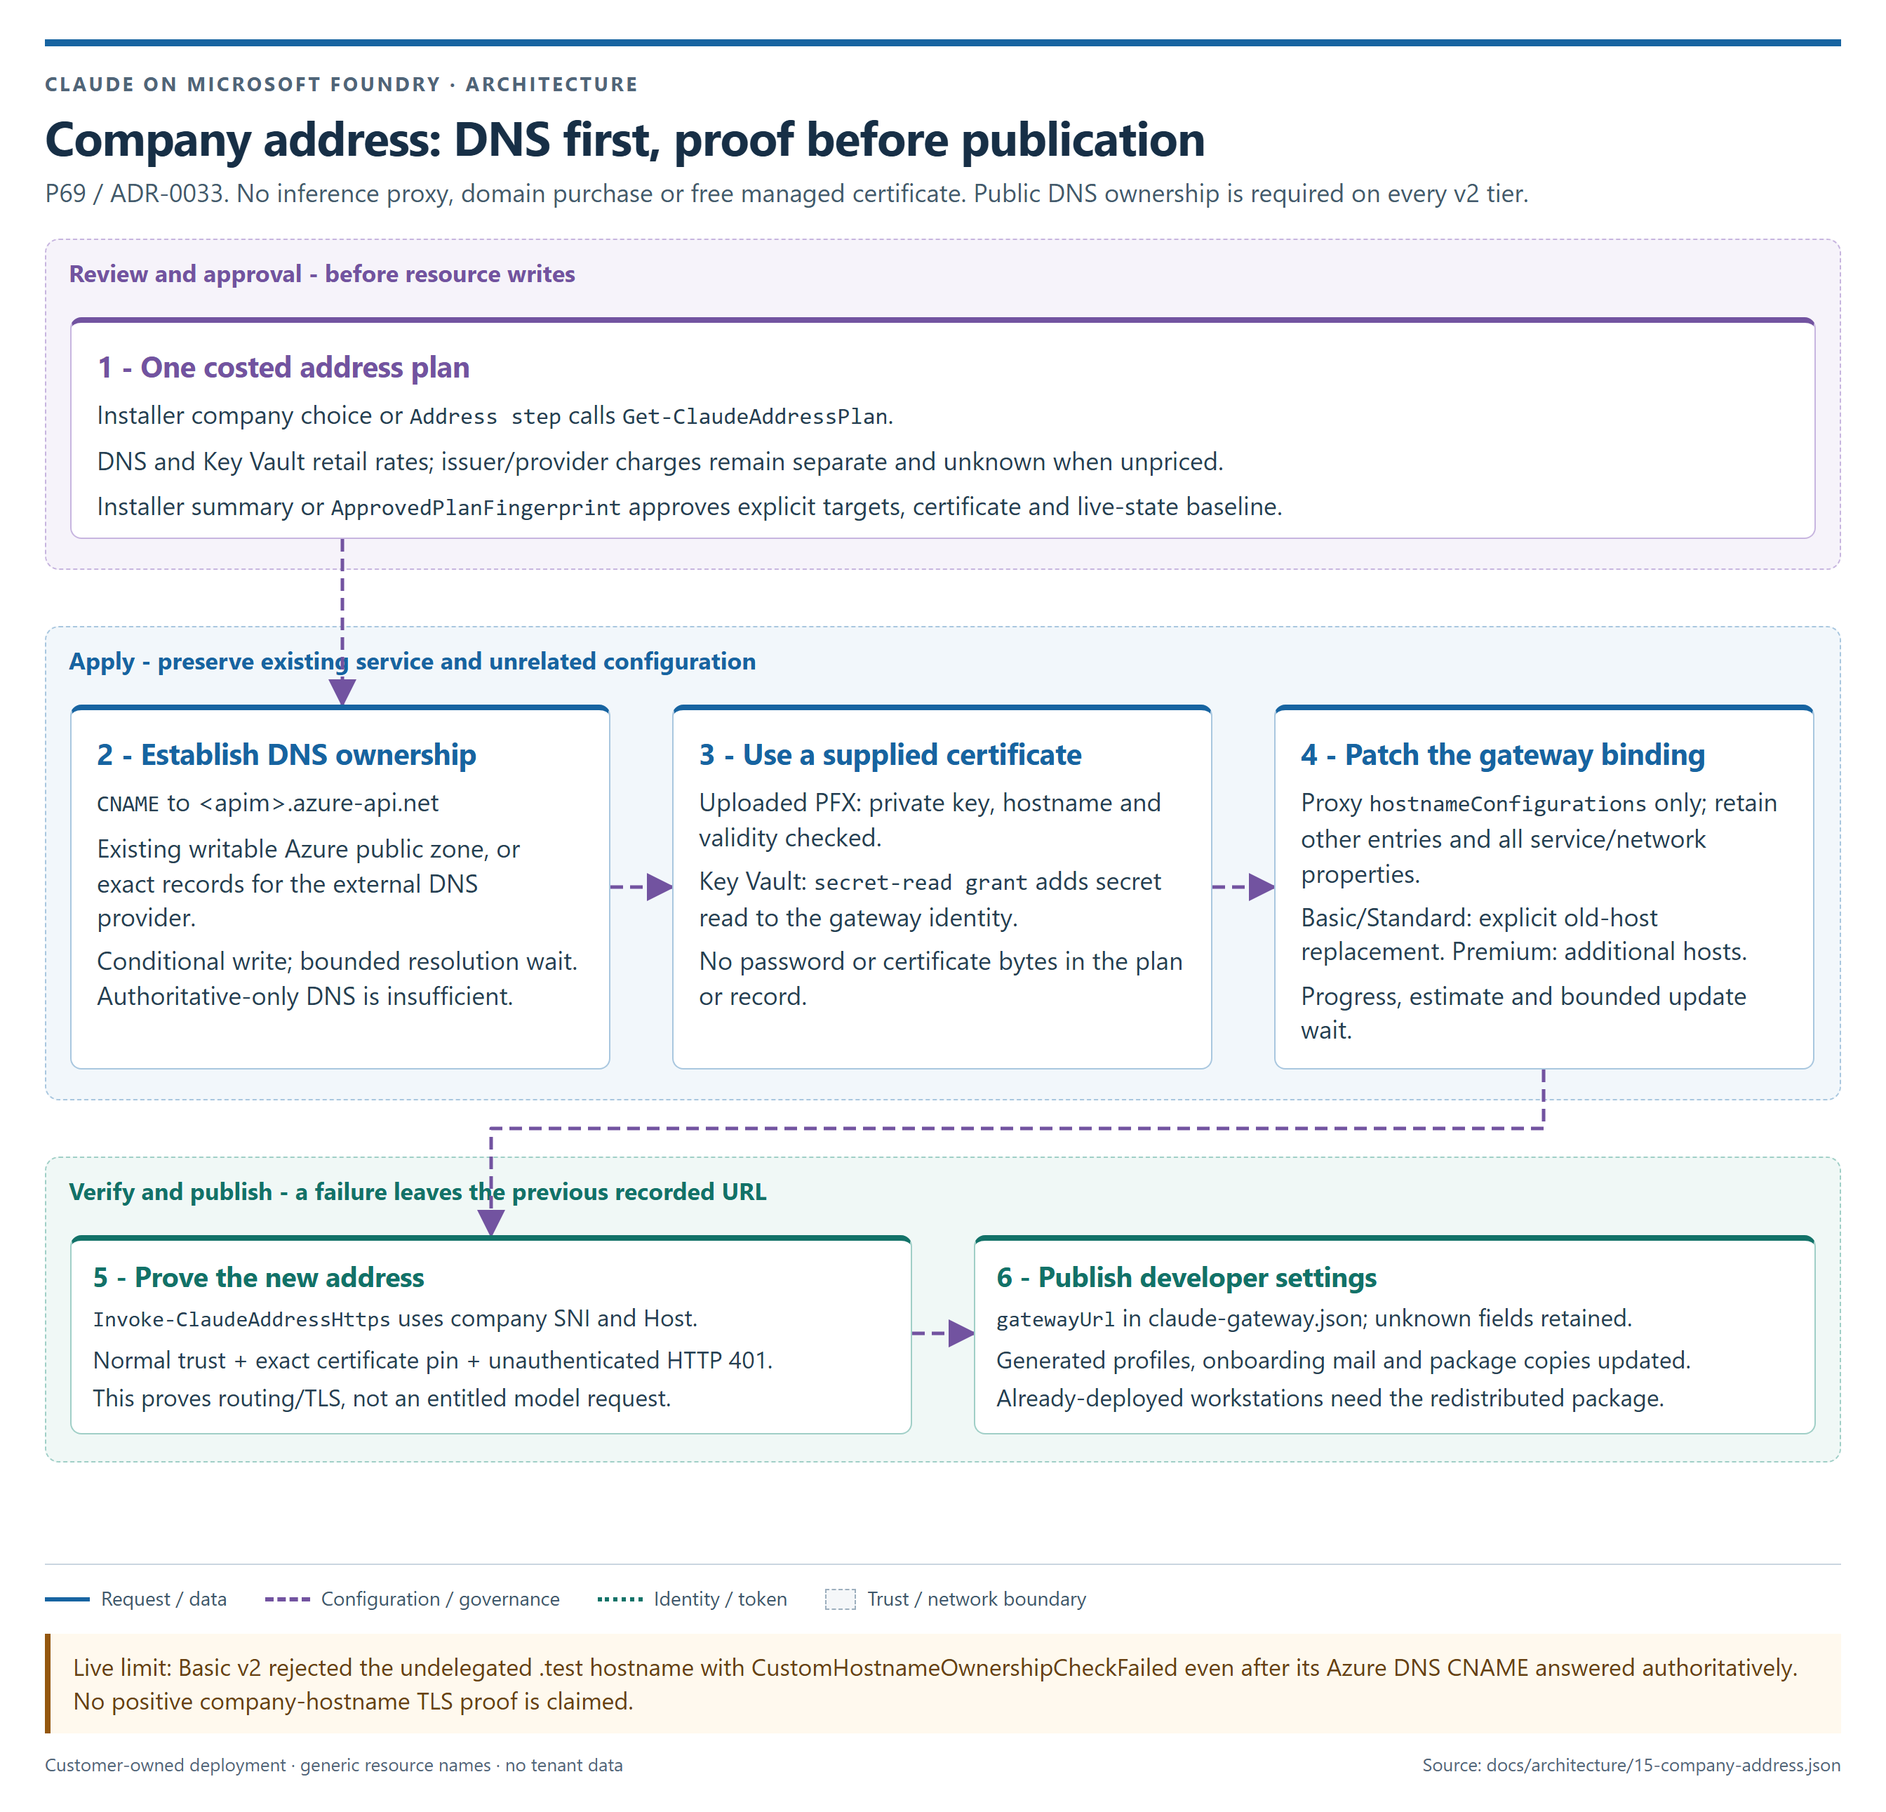
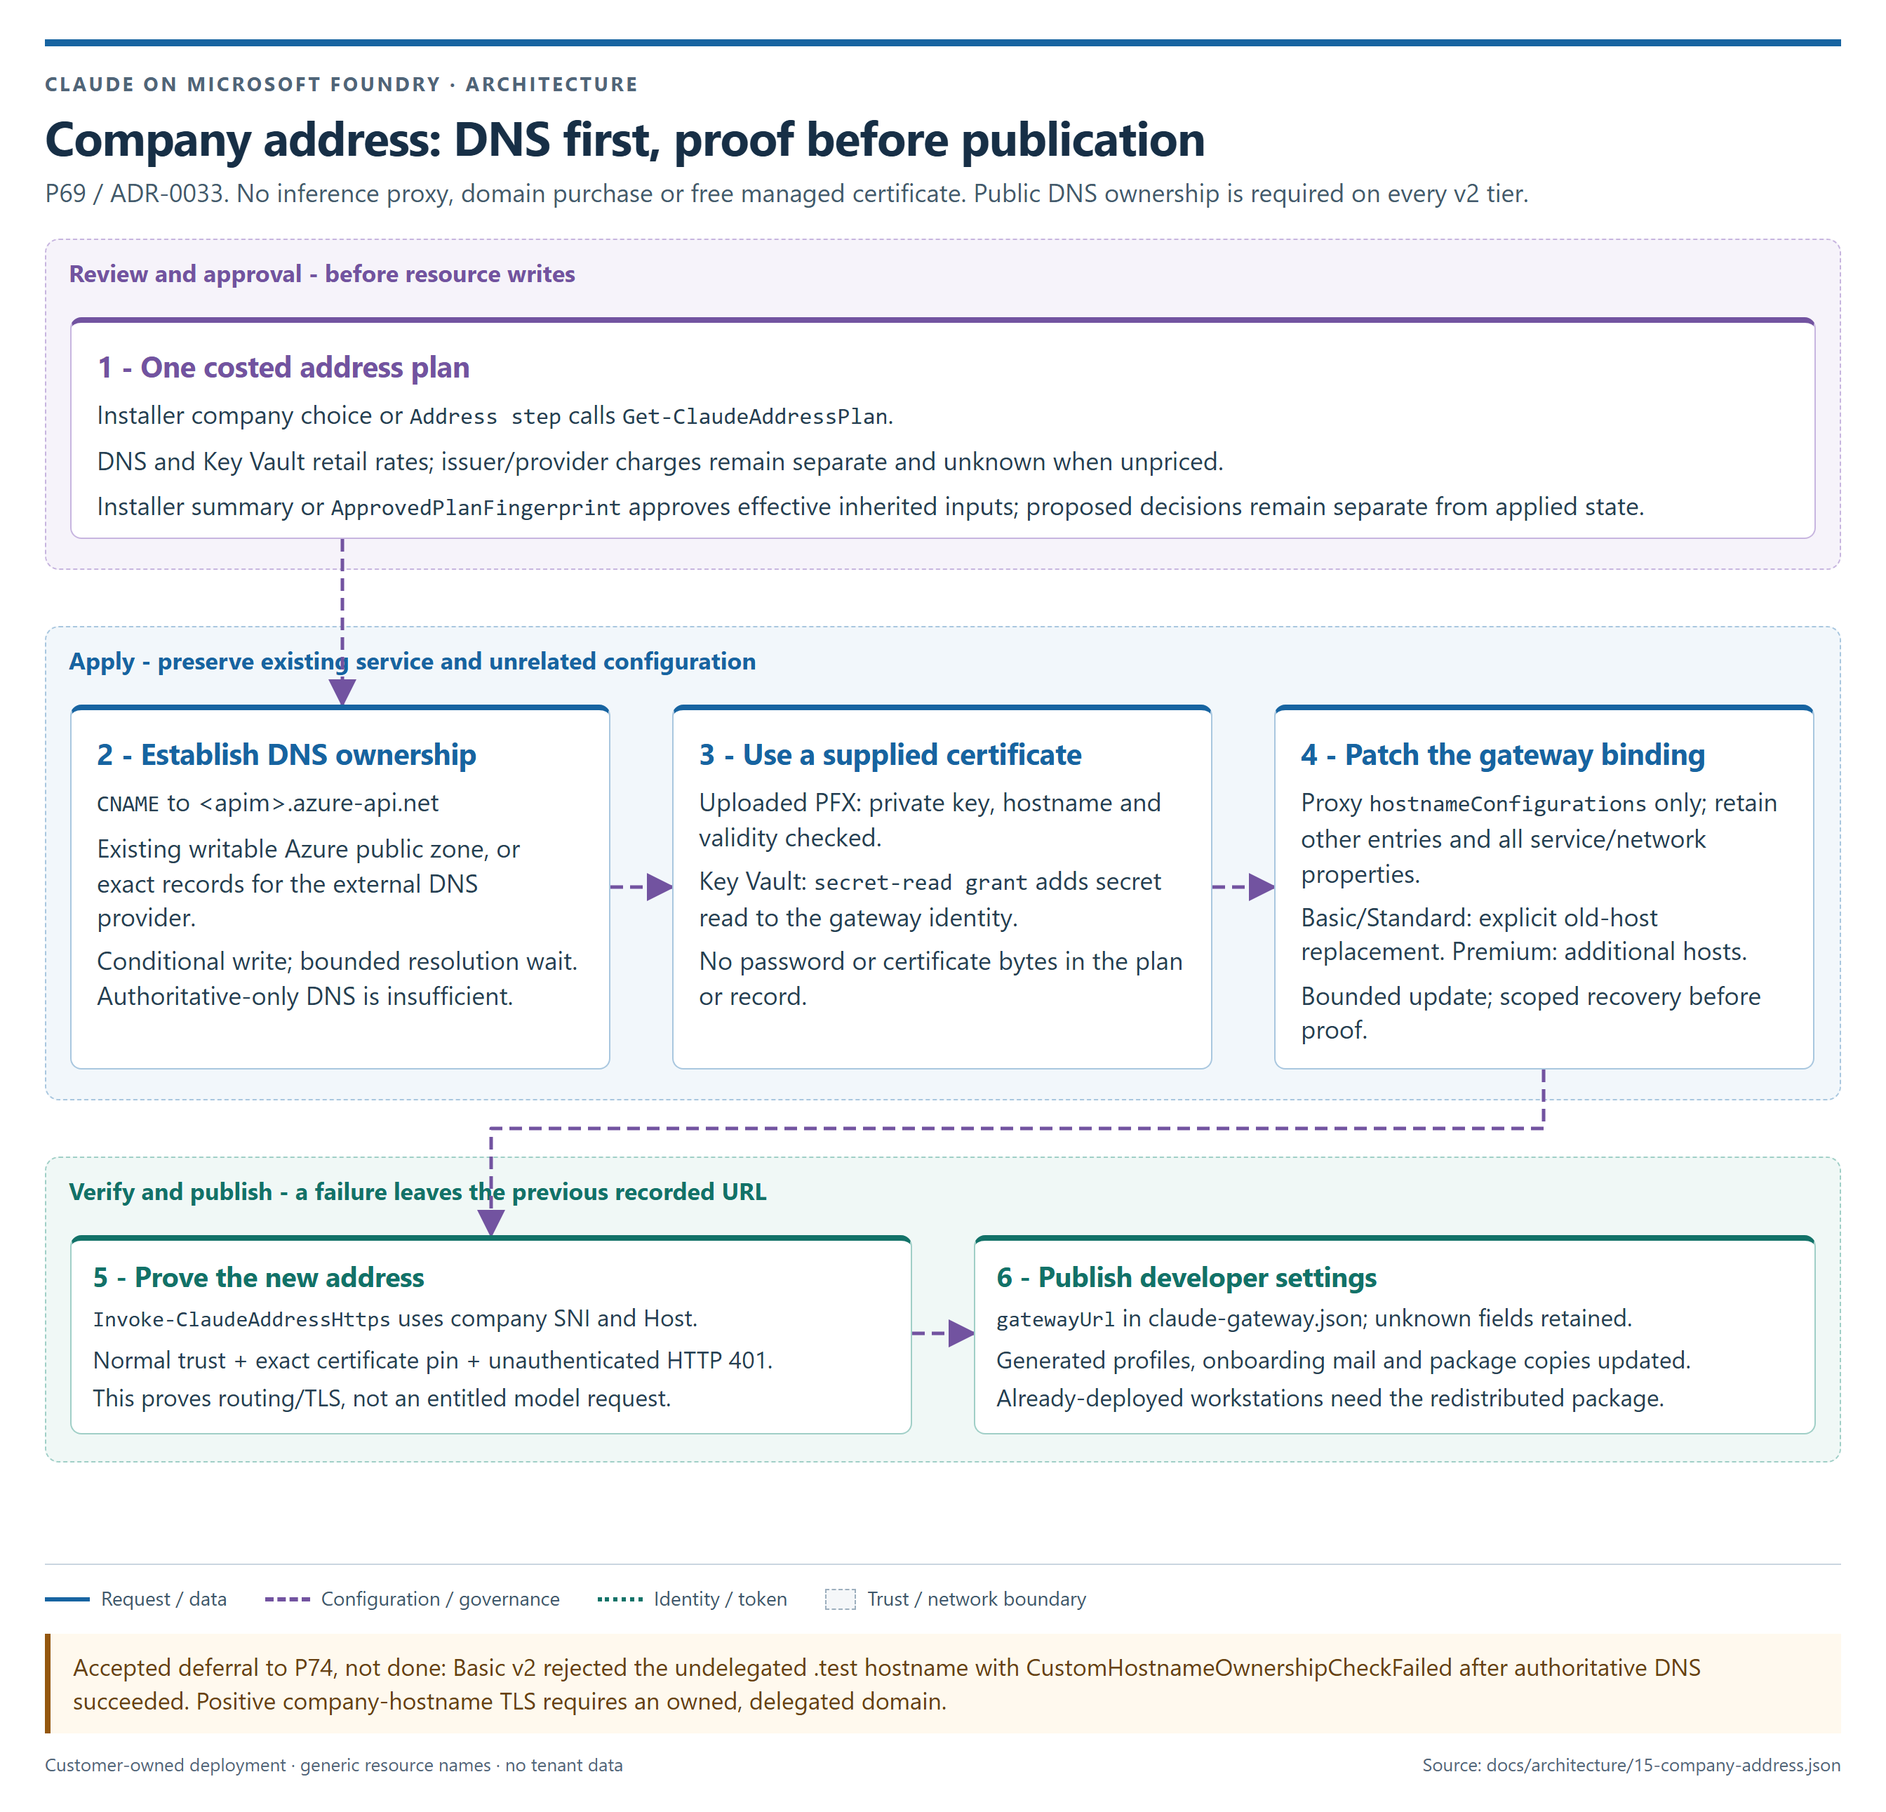
docs(p69): describe reviewed state, recovery and deadline boundaries
Record the council fixes and complete dual-host assertion/mutation counts,
document resolved inherited inputs, applied-state history, scoped recovery
and deadline cleanup, and regenerate the architecture manifest and image.
The positive delegated-domain proof remains deferred to P74, not done.

Copilot-Session: 1c966b06-b3de-42c0-9254-3a62ae5081bc

diff --git a/docs/STATUS.md b/docs/STATUS.md
@@ -21,18 +21,41 @@ P69 did not need the reserved U33 identifier.
 ### Council round 1 corrections
 
 The lead's five-seat review of `aa7ed19..c82f951` (gpt-6-astra, read-only, 2026-09-28)
-returned BLOCK. The following corrections are in progress; a passing targeted test is not a
+returned BLOCK. The following corrections are implemented and targeted checks pass; a passing targeted test is not a
 council re-review verdict.
 
 | ID | Seat | Finding | Required evidence |
 |---|---|---|---|
-| A1 | Architect | Inherited custom address writes escaped Foundation pricing and fingerprinting | The effective inherited inputs are passed exactly, costed and fingerprinted |
-| A2 | Architect | Proposed answers were saved as applied decisions and as history's previous value | Any failed step retains applied decisions; history starts at the pre-question value |
-| C1 | Coder | Replacing the old hostname then failing proof made Change reject recovery as drift | Only the recorded unverified replacement can be recovered, with fresh approval |
-| C2 | Coder | Returning to Azure retained company metadata and old generated settings | Metadata and generated artifacts agree with the Azure URL |
-| Q1 | QA | Source-position assertions did not execute installer approval guards | Real installer with mocked Azure: inherited custom, mismatch, decline and WhatIf |
-| U1 | UX | A slow check could succeed after its advertised deadline | Checks and native reads stop at the remaining deadline; late success is rejected |
-| S1 | Security | PFX bytes were reread after hash approval | The validated and hashed byte buffer is the buffer uploaded |
+| A1 | Architect | Inherited custom address writes escaped Foundation pricing and fingerprinting | `d2a61d5`: effective inputs are resolved once, passed exactly and fingerprinted; executable installer/Foundation mutations |
+| A2 | Architect | Proposed answers were saved as applied decisions and as history's previous value | `f469bbc`: generic real-orchestrator tests preserve pre-question history and applied state on failure |
+| C1 | Coder | Replacing the old hostname then failing proof made Change reject recovery as drift | `e030301`: integrity-checked unverified receipt; only matching Change address recovery, with fresh approval |
+| C2 | Coder | Returning to Azure retained company metadata and old generated settings | `d2a61d5`, `74fab21`: metadata, Foundation inputs and generated artifacts agree with the Azure URL |
+| Q1 | QA | Source-position assertions did not execute installer approval guards | `d2a61d5`, `387f2fd`: real installer with mocked Azure; deleting its fingerprint, decline or WhatIf guard fails the named test |
+| U1 | UX | A slow check could succeed after its advertised deadline | `a6b9d21`, `74fab21`: cancellable checks, bounded native reads, late-result refusal and parent-owned private-file cleanup |
+| S1 | Security | PFX bytes were reread after hash approval | `5128a28`: one validated/hashed buffer is uploaded despite file replacement during DNS waiting |
+
+Round 1 correction evidence, both PowerShell 7 and Windows PowerShell 5.1:
+
+| Test | Assertions or mutations |
+|---|---|
+| `Test-CompanyAddress.ps1` | 78/78 |
+| `Test-CompanyCertificate.ps1` | 31/31 |
+| `Test-CompanyFlow.ps1` | 27/27 |
+| `Test-CompanyInstaller.ps1` | 11/11, executing the real installer with external services stubbed |
+| `Test-FlowAppliedState.ps1` | 9/9, executing the real orchestrator for an arbitrary step |
+| `Test-AddressDeadline.ps1` | 5/5, including real child-process timeouts and native Azure-command stubs |
+| `Test-CompanyMutationRunner.ps1` | 5/5 |
+| `Test-CompanyAddressNegative.ps1` | 81/81; every case runs the full applicable 78/31/27/11/9/5 assertions |
+
+The 81 mutations took 257.1 s on PowerShell 7 and 437.6 s on Windows PowerShell 5.1.
+Each suite owns a temporary directory, including deliberately broken cleanup cases; no assertion
+or mutation is skipped. Native timeout checks include termination/cleanup time in the reported
+elapsed duration. Structured values, secure strings and PFX byte arrays also passed through the
+real worker transport on both hosts without being placed on a native command line.
+
+P72 merge boundary: the trap, Show-Status, main drift call and cancellation catch blocks were
+not rewritten. Shared changes are the applied-decision snapshot/serializer, history capture and
+the narrowly scoped recovery branch inside `Assert-RecordMatchesLive`.
 
 - [x] U30 is closed with dated Microsoft Learn and Azure Retail Prices API evidence for every
       v2 tier, certificate source, DNS record, update wait and component price; ADR-0033 records
@@ -129,7 +152,7 @@ for each case. Dedicated runner tests cover exit codes, output, missing summarie
 All 59 cases then passed in 82.9 s on PowerShell 7 and 164.8 s on Windows PowerShell 5.1, with
 the same 71/30/24 full assertion counts. The charter budget is not increased.
 
-**Handoff state: blocked, not packet-complete.** At `81508b1`, the corrected gate attempt retried
+**Prior handoff at c82f951: blocked, not packet-complete.** At `81508b1`, the corrected gate attempt retried
 the shared `.gate-lock` every 60 seconds for the full permitted 60 minutes. Another run retained
 the lock, so this attempt never started the packet gate and exited 1. That lock was not removed.
 The last executed packet gate therefore remains the timeout above: 21 passed, 2 warned, 1 failed,

diff --git a/docs/SETUP.md b/docs/SETUP.md
@@ -460,6 +460,8 @@ entitlement, verifies the controls, and writes `onboarding/claude-gateway.json`
 end. The installer asks for the hostname, certificate source and DNS hosting
 with its other choices. The address review appears before the final summary;
 declining or using `-WhatIf` makes no address change.
+The prompt calls the address "expensive to change afterwards" because deployed
+workstations need redistributed settings when the URL changes.
 
 All three v2 tiers support an uploaded PFX or a Key Vault certificate. None
 supports a free API Management managed certificate. Basic v2 and Standard v2
@@ -511,6 +513,14 @@ custom hostname on Basic v2 or Standard v2 requires an explicit
 `-AddressReplaceHostname`; the review names the old hostname whose callers
 will need new settings.
 
+Unattended Foundation resolves inherited company-address inputs before pricing
+and passes that exact selection, including `-AddressDnsMode`. An explicit Azure
+selection cannot inherit a company address from another local record. Returning
+to Azure removes both address metadata copies and stale Foundation address
+inputs, and updates generated profiles and onboarding mail to the Azure URL.
+PFX validation and hashing use one byte buffer; apply uploads those same bytes
+after waiting for DNS, even if the original path has been replaced.
+
 After deployment, DNS is configured and verified, the certificate and Proxy
 hostname are applied with an ARM PATCH, and a request uses the company hostname
 for SNI and Host. Publication requires a matching, trusted certificate and the
@@ -527,6 +537,17 @@ leaves the previous developer URL recorded. The default Azure gateway endpoint
 remains available
 ([update duration and default endpoint](https://learn.microsoft.com/azure/api-management/configure-custom-domain)).
 
+Checks run in deadline-bound worker processes, including native Azure reads.
+Expiry stops their process trees and removes their private temporary body
+directories. Reported elapsed time includes cancellation and cleanup; a late
+result cannot count as successful.
+
+If a replacement removed the old hostname before proof failed, a separate
+`pendingAddress` receipt records the unverified operation. `-Change address`
+can review recovery only when the receipt, gateway, old recorded URL and exact
+live hostname collection match. It requires a new fingerprint and publishes
+nothing until proof succeeds; unrelated drift still stops the flow.
+
 **Isolated proof, 2026-09-28.** A Basic v2 gateway deployed from `infra/main.bicep`
 in 148.0 seconds. The reserved `.test` zone's CNAME answered directly at Azure
 DNS in 0.576 seconds. Both uploaded-PFX binding attempts returned
@@ -536,6 +557,9 @@ company-address proof. The isolated Azure endpoint returned its governed 401.
 No public domain was available or purchased. All proof resources were deleted
 and the soft-deleted APIM instance was purged
 ([STATUS](STATUS.md#p69-the-company-address-in-the-flow-2026-09-28)).
+The lead accepted the positive company-hostname proof as a scope deferral to
+P74, not a completed acceptance criterion
+([ADR-0033](adr/0033-company-address.md#accepted-scope-deferral-2026-09-28)).
 
 ![Live Basic v2 company-address review showing the supplied PFX, exact CNAME, Azure retail DNS rates and no public certificate issuance.](guide/40-company-address-review.png)
 

diff --git a/docs/GUIDED-FLOW.md b/docs/GUIDED-FLOW.md
@@ -163,6 +163,12 @@ eight characters. `-WhatIf` prints the same review and writes nothing.
 
 ## Resume after failure
 
+Questions and plans use proposed decisions in memory. Durable `decisions`
+contain only applied values; each history entry's `from` is captured before
+questions. A failed step cannot save its proposed answer with an old certificate
+pin or other applied metadata. Successful steps advance their own applied
+decisions. Unapplied answers are supplied again on a retry.
+
 When an apply starts, the orchestrator writes `activeRun` with the run id,
 action, selected change, fingerprint and UTC start time. After each step applies,
 it writes the decision record and appends one history entry with that `runId`,
@@ -267,16 +273,26 @@ reused on a subsequent review after a DNS or TLS problem is resolved.
 For unattended Setup, the `foundation.addressMode`,
 `foundation.addressHostname`, `foundation.addressCertificateSource`,
 `foundation.addressKeyVaultCertificateId`, `foundation.addressPfxPath` and
-`foundation.addressDnsZoneResourceId` inputs reach the installer. Its nested
+`foundation.addressDnsZoneResourceId` / `foundation.addressDnsMode` inputs reach the installer. Its nested
 address plan and costs are fingerprinted, and a changed nested plan is refused
 before installer writes. Attended Setup continues to use the installer's own
 choices and summary confirmation.
+When those inputs are omitted, unattended Foundation resolves them from the
+applied address first and passes the exact resolved choice. No recorded address
+means an explicit Azure choice, not an unreviewed installer default.
+
+A failed replacement can leave the old recorded hostname absent from Azure.
+The unverified `pendingAddress` receipt allows only a matching `Change address`
+recovery review: gateway, previous URL, proposed inputs and exact live hostname
+collection must match. The review has a fresh fingerprint. Neither that receipt
+nor recovery discovery labels the company URL as verified, and other actions
+still refuse drift.
 
 The [live isolated run](SETUP.md#company-address) demonstrated authoritative DNS
 and Azure's public-domain ownership refusal, not a successful custom-hostname
 binding. The Basic v2 `.test` name could not pass that public validation. The
-positive company TLS proof remains blocked until an administrator supplies a
-delegated domain; the default gateway transport was also checked read-only on
+positive company TLS proof is an accepted deferral to P74, not done; it requires
+an owned, delegated domain. The default gateway transport was also checked read-only on
 PowerShell 7 and 5.1, with HTTP 401 and the expected trusted certificate.
 
 ![Live company-address review with explicit component costs and supplied-certificate constraints; public hostname ownership remains a prerequisite.](guide/40-company-address-review.png)

diff --git a/CHANGELOG.md b/CHANGELOG.md
@@ -29,6 +29,12 @@ exact streaming cache-creation detail remains **U13**.
 
 ### Added
 
+- **P69 council corrections.** Inherited addresses are resolved before Foundation approval;
+  proposed decisions no longer overwrite applied state or history; failed replacements have a
+  narrowly scoped recovery review; Azure transitions reconcile metadata and generated settings.
+  Checks enforce remaining deadlines and clean private worker files on cancellation. PFX uploads
+  use the validated byte buffer. The positive delegated-domain TLS proof is explicitly deferred
+  to P74 by the lead, not marked complete.
 - **Company address in the installer and guided flow (P69).** The company choice now plans
   and applies public DNS, a supplied PFX or Key Vault certificate, and a preserved APIM Proxy
   hostname, with component prices before approval. `-Change address` uses the same fingerprinted

diff --git a/docs/ARCHITECTURE.md b/docs/ARCHITECTURE.md
@@ -64,6 +64,10 @@ bindings and service/network properties. The decision record and generated
 handover artifacts change only after a DNS/TLS gateway proof. Public DNS
 ownership remains required; an authoritative-only `.test` zone was rejected
 on the isolated Basic v2 gateway ([U30](UNKNOWNS.md#u30--the-company-address--closed-2026-09-28)).
+The lead deferred the positive delegated-domain proof to P74. Proposed decisions
+are separate from applied state; a failed replacement has a separately recorded,
+unverified receipt for a new scoped recovery review. Deadline-bound workers
+include native reads and clean their private files when cancelled.
 
 ## Request path
 
